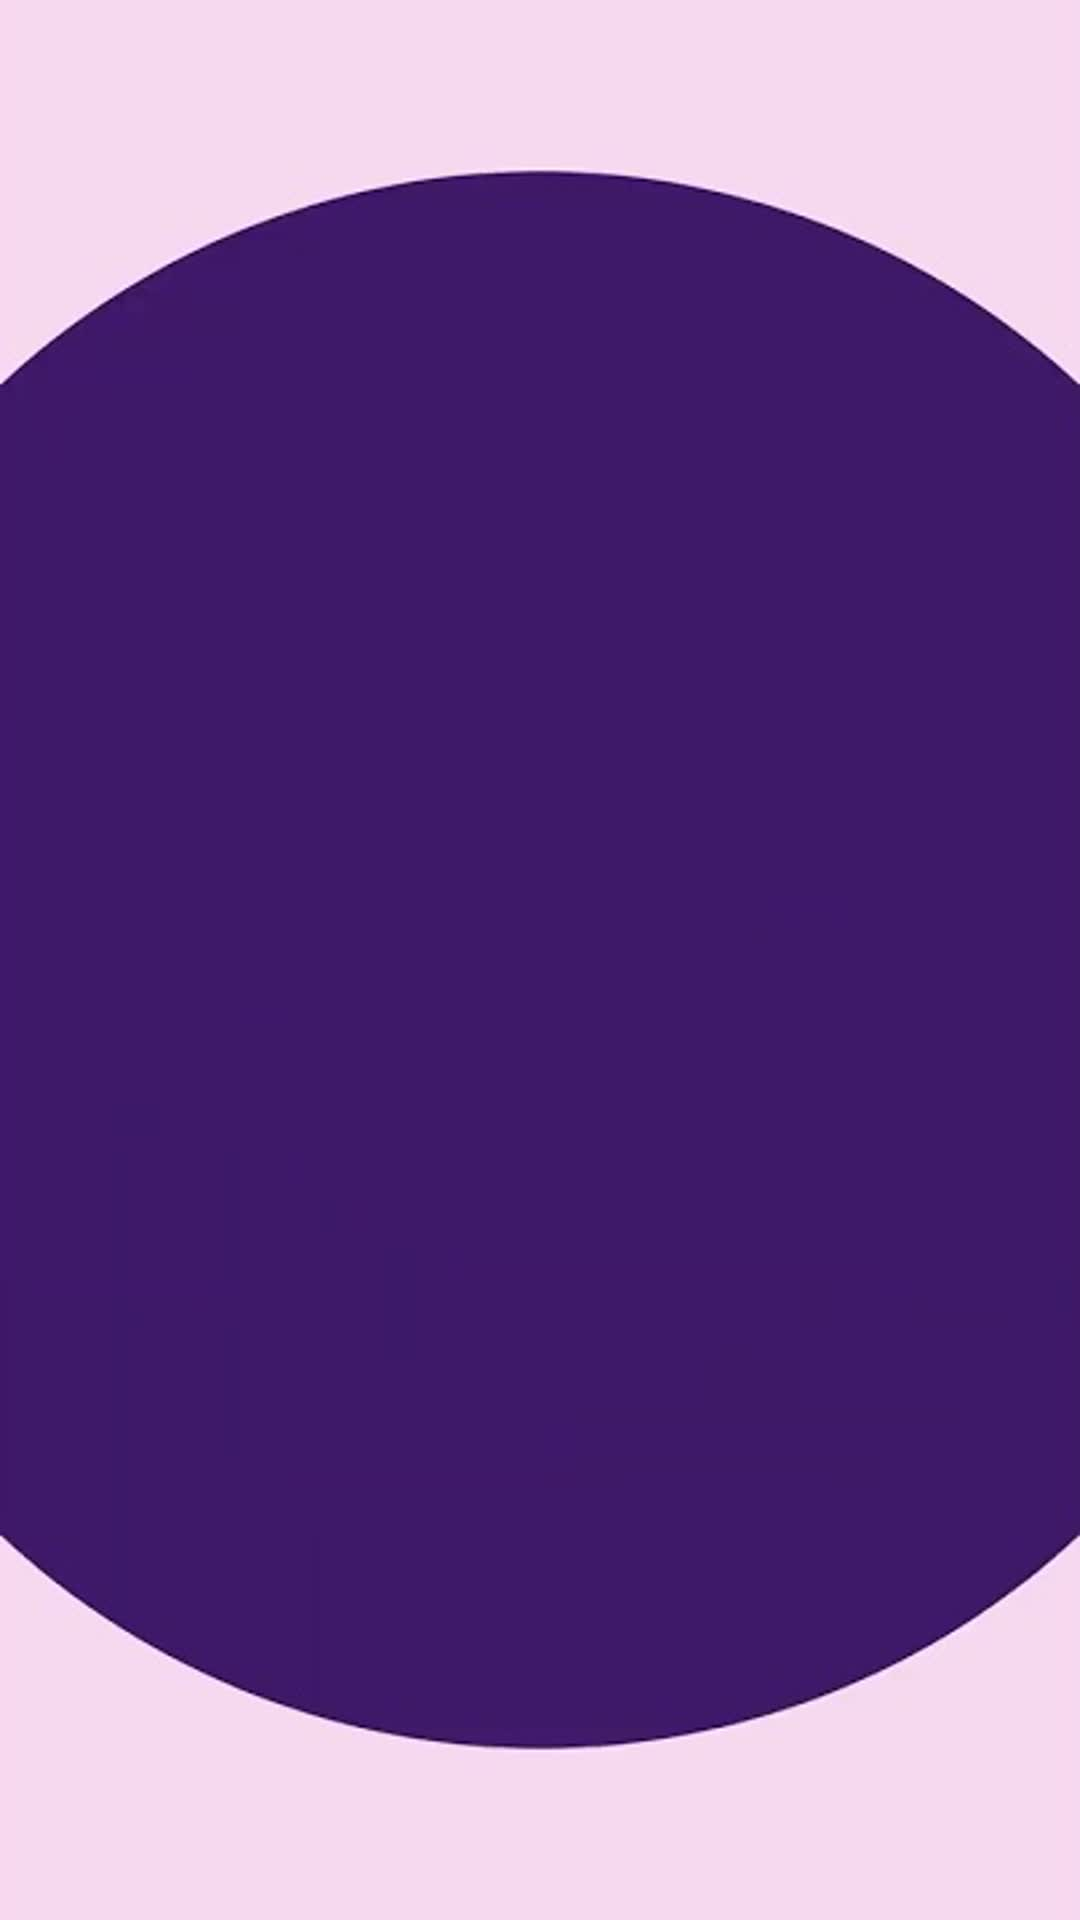
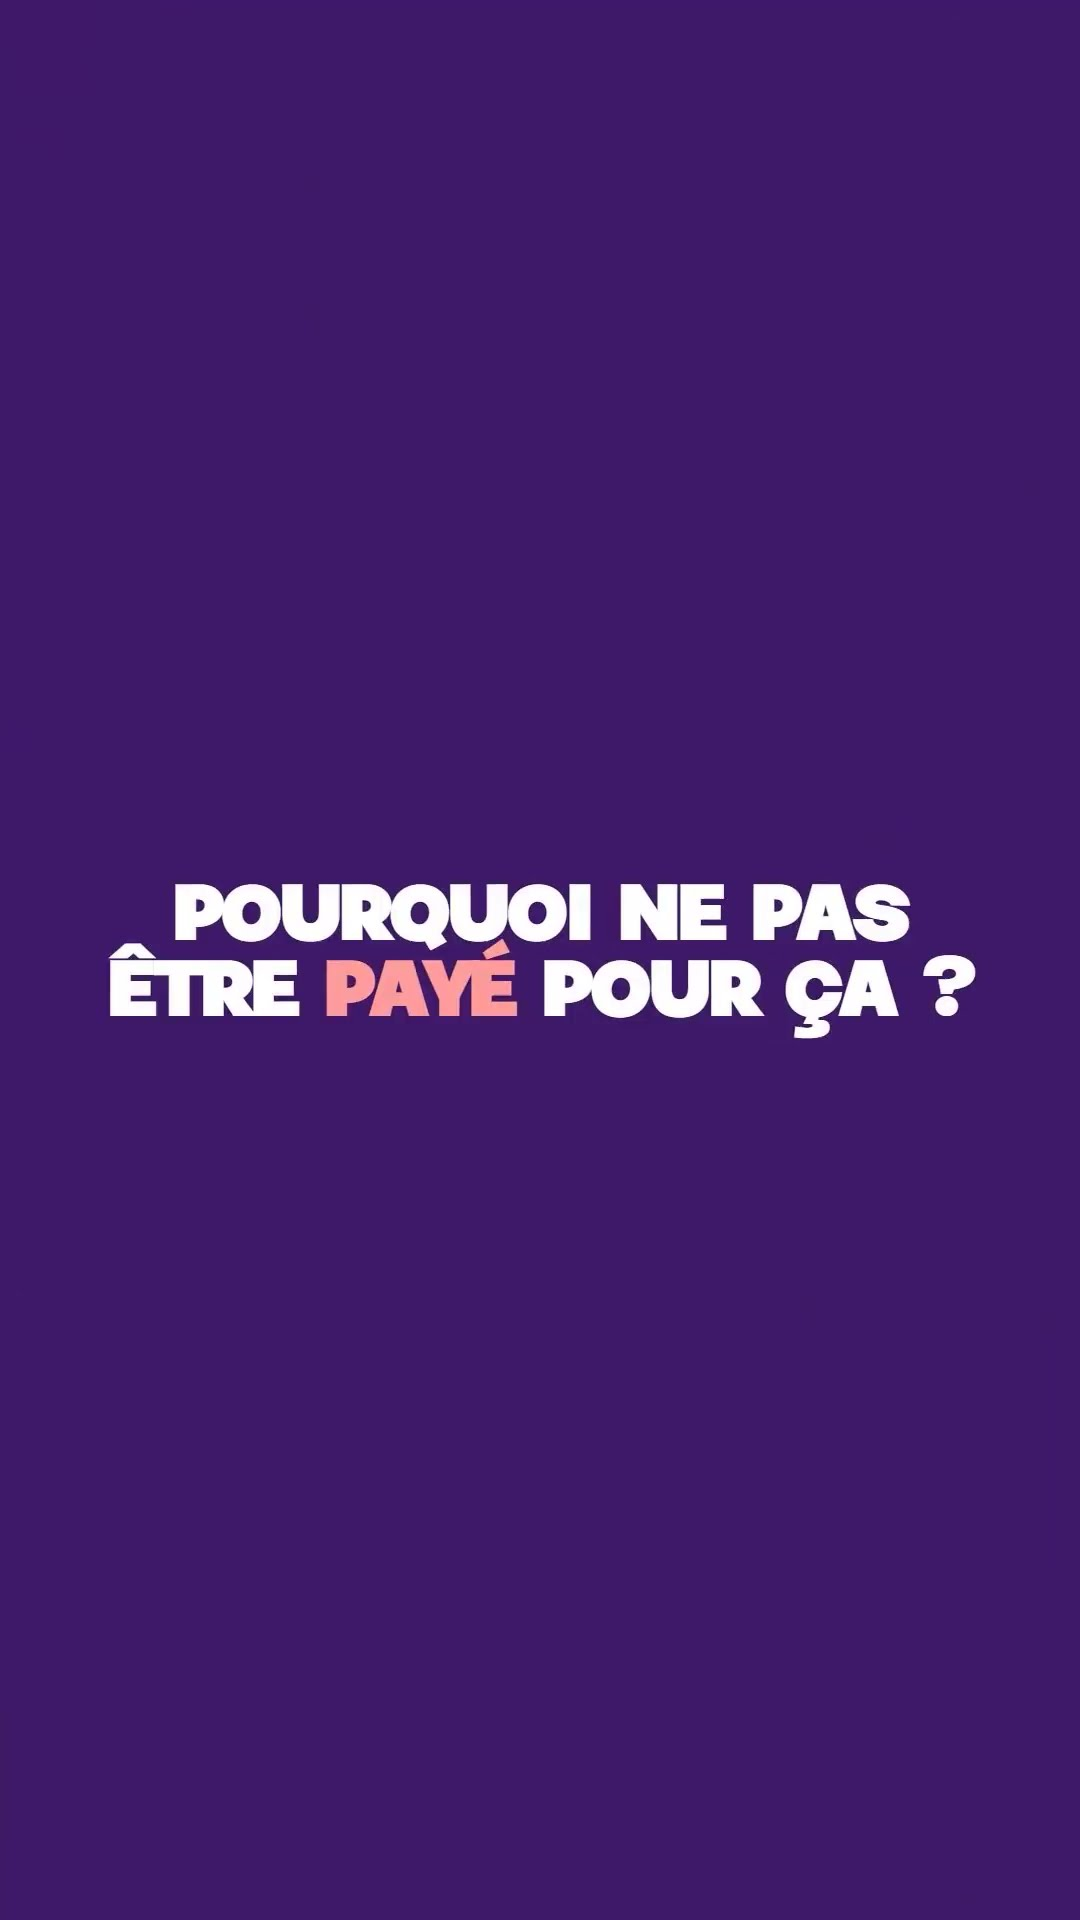
Use a clearer thumbnail for Tu stream gratuitement.
Swap the empty YouTube still for the Shorts vertical frame with the motion hook text.

diff --git a/playadz-tu-stream-gratuitement.html b/playadz-tu-stream-gratuitement.html
@@ -50,7 +50,7 @@
       <h1 class="fade-up" data-i18n="project.streamGratuit.title"></h1>
       <div class="project-media fade-up is-short">
         <button type="button" class="yt-facade" data-youtube-id="XF82xJBwU5E" data-i18n-aria="project.streamGratuit.title">
-          <img src="assets/images/playadz-tu-stream-gratuitement.jpg?v=1" alt="" loading="lazy" data-i18n-alt="project.streamGratuit.title">
+          <img src="assets/images/playadz-tu-stream-gratuitement.jpg?v=2" alt="" loading="lazy" data-i18n-alt="project.streamGratuit.title">
           <span class="yt-facade-play" aria-hidden="true"><i class="fas fa-play"></i></span>
         </button>
       </div>

diff --git a/index.html b/index.html
@@ -82,7 +82,7 @@
           </figure>
           <figure class="home-video">
             <button type="button" class="yt-facade" data-youtube-id="XF82xJBwU5E" data-i18n-aria="project.streamGratuit.title">
-              <img src="assets/images/playadz-tu-stream-gratuitement.jpg?v=1" alt="" loading="lazy" data-i18n-alt="project.video.streamGratuitThumbAlt">
+              <img src="assets/images/playadz-tu-stream-gratuitement.jpg?v=2" alt="" loading="lazy" data-i18n-alt="project.video.streamGratuitThumbAlt">
               <span class="yt-facade-play" aria-hidden="true"><i class="fas fa-play"></i></span>
             </button>
             <figcaption>
